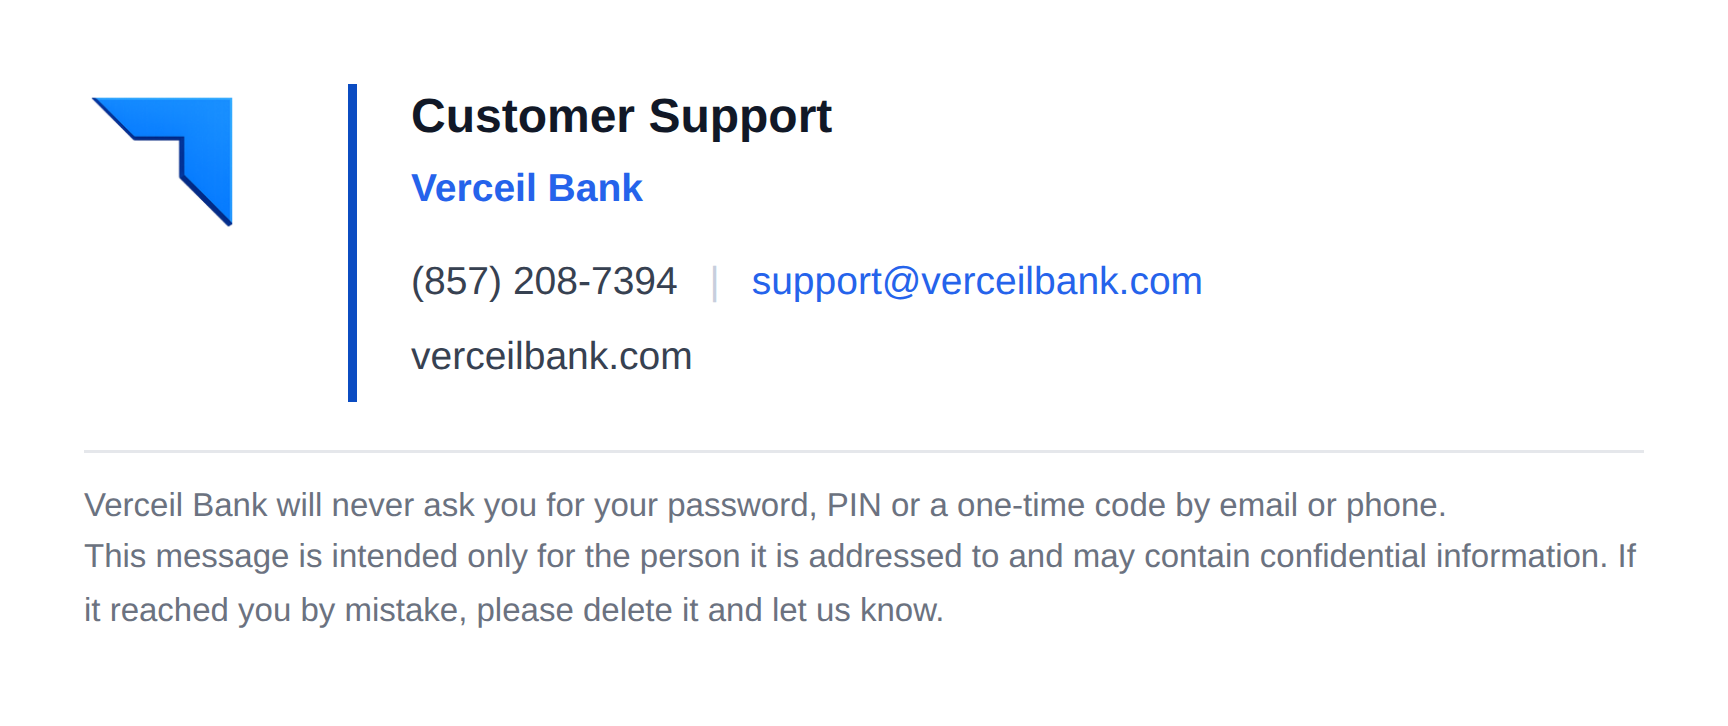
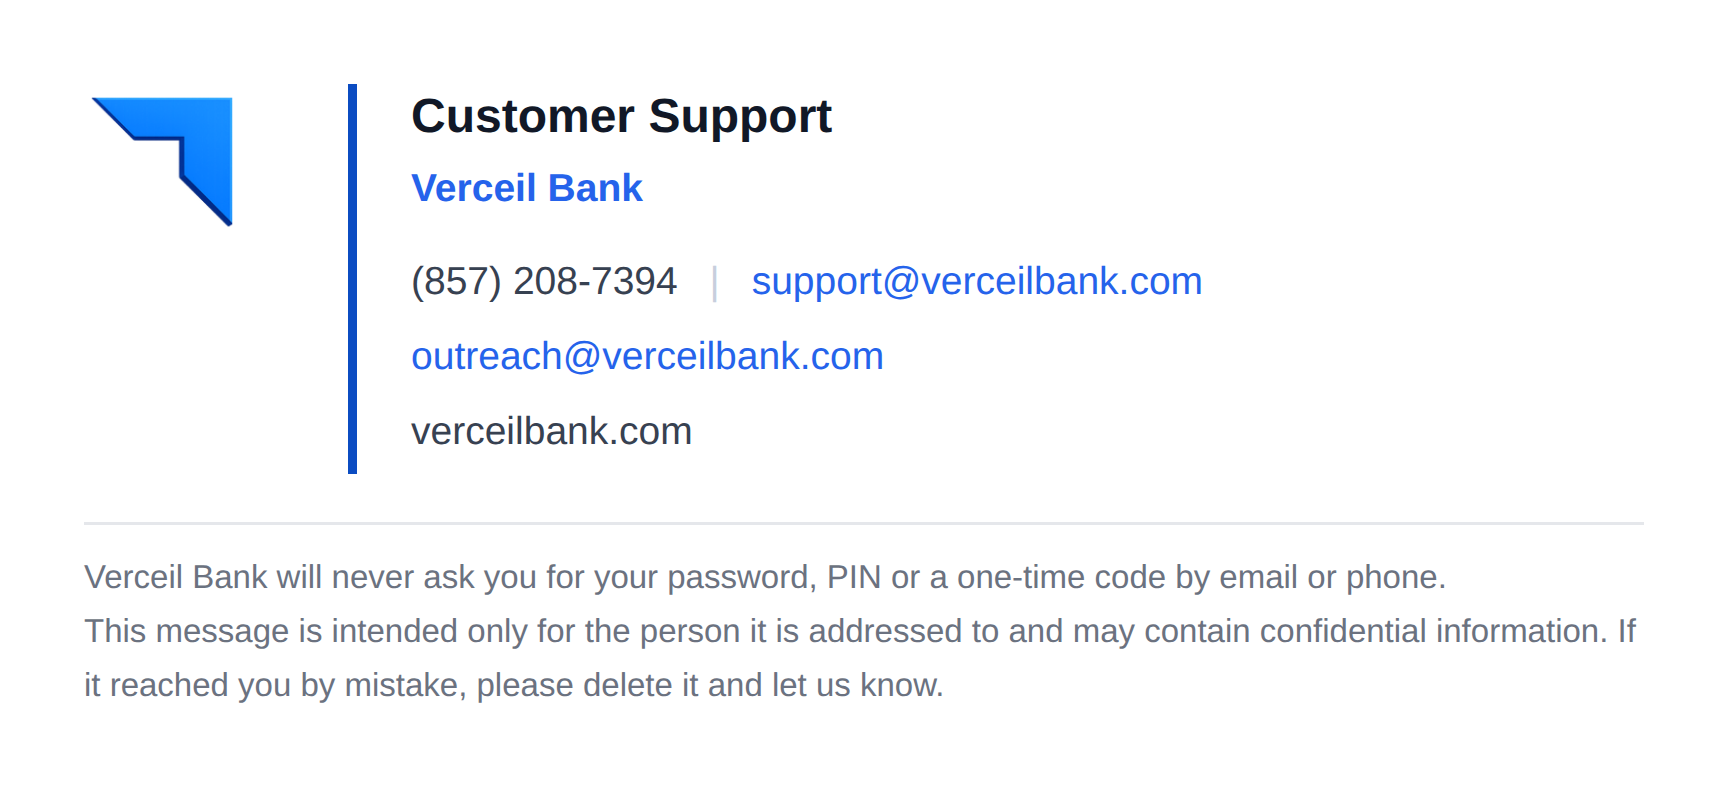
Put outreach@ in the signature under support@
Two addresses, on their own lines rather than sharing one with a separator:
they are different desks, and a reader picking between them should not have to
read a run-on line to tell where their message is going.

The plain-text version carries it too — a client that strips the formatting
should not also drop an address.

Claude-Session: https://claude.ai/code/session_01HbDGVCFuBMzktcBJAS7Xrn

diff --git a/brand/email-signature.html b/brand/email-signature.html
@@ -51,6 +51,8 @@
         <span style="color:#C7CFDD;padding:0 7px;">|</span>
         <a href="mailto:support@verceilbank.com" style="color:#2563EB;text-decoration:none;">support@verceilbank.com</a>
         <br>
+        <a href="mailto:outreach@verceilbank.com" style="color:#2563EB;text-decoration:none;">outreach@verceilbank.com</a>
+        <br>
         <a href="https://verceilbank.com" style="color:#374151;text-decoration:none;">verceilbank.com</a>
       </div>
 
@@ -95,6 +97,7 @@
   <pre>Customer Support
 Verceil Bank
 (857) 208-7394 | support@verceilbank.com
+outreach@verceilbank.com
 verceilbank.com
 
 Verceil Bank will never ask you for your password, PIN or a one-time
